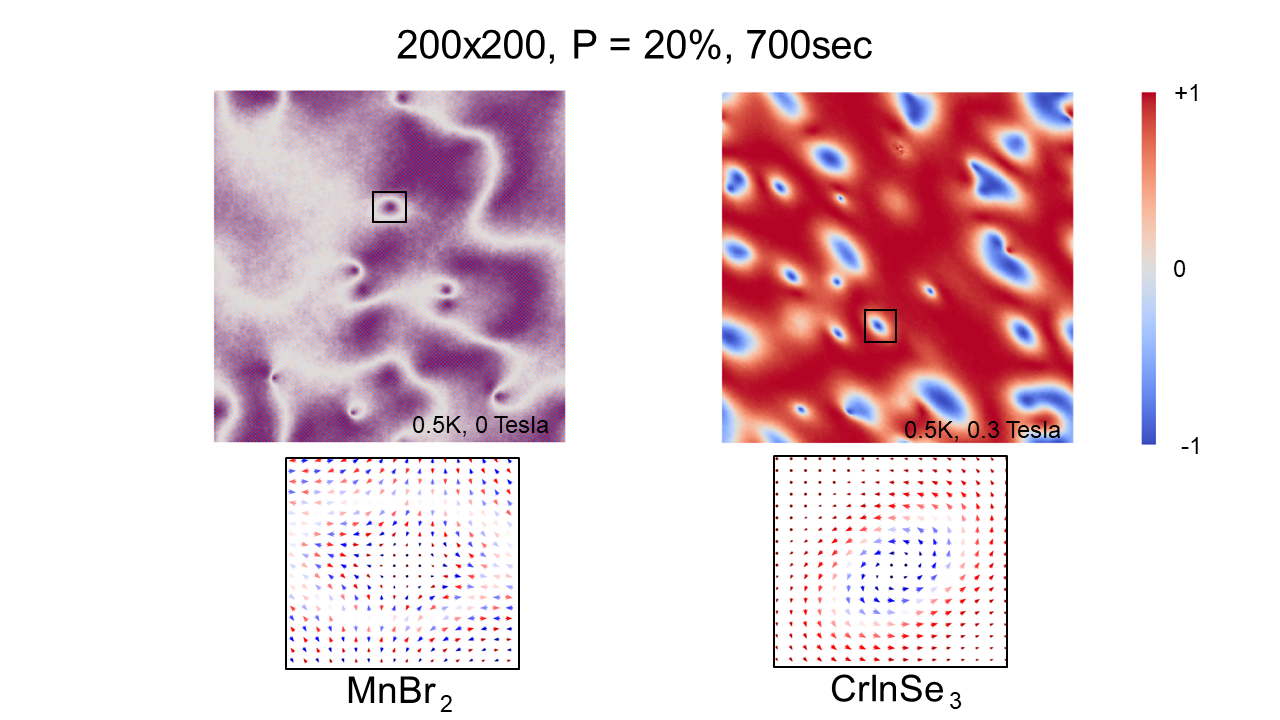
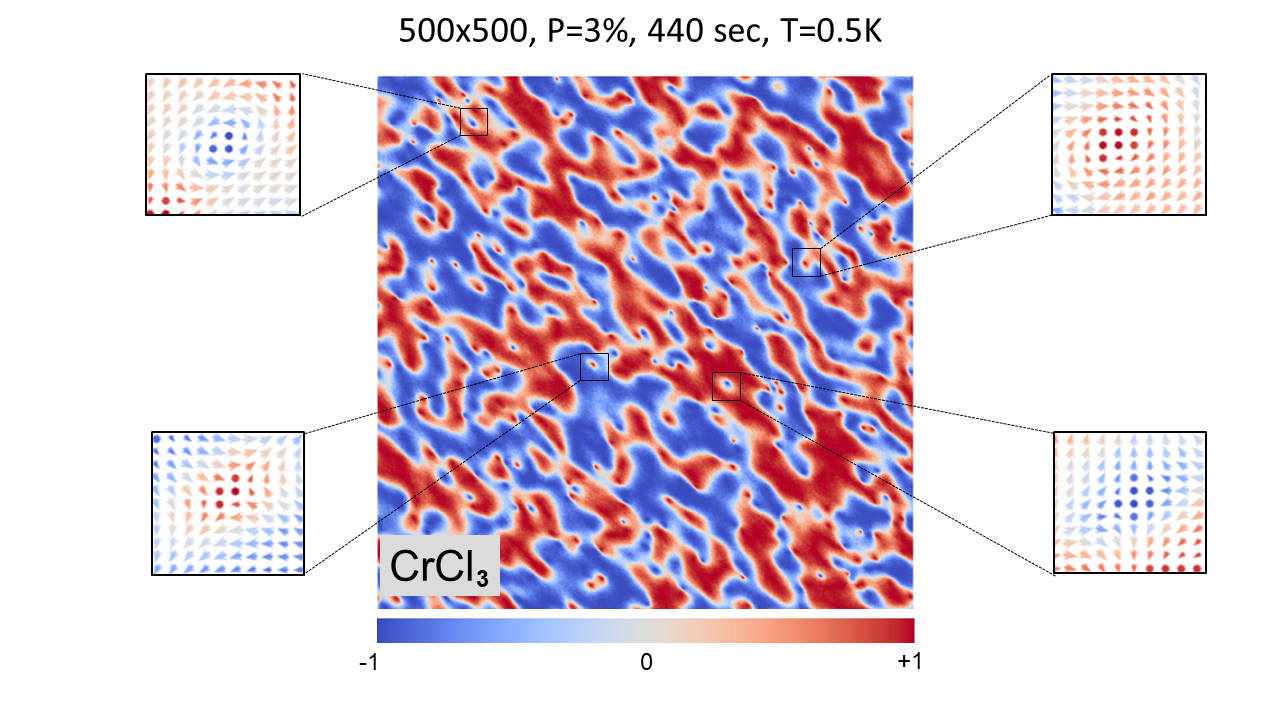
Joss paper commit 1.0

diff --git a/JOSS Paper.md b/JOSS Paper.md
@@ -1,6 +1,6 @@
 
 ---
-title: 'CUDA-METRO: Metropolis Monte-Carlo for 2D Atomistic Spin Texture Simulation '
+title: 'CUDA-METRO: Parallel Metropolis Monte-Carlo for 2D Atomistic Spin Texture Simulation '
 tags:
   -  Python
   -  Monte Carlo
@@ -22,22 +22,51 @@ tags:
    ror: [04dese585](https://ror.org/04dese585)
   -  name: Indian Institute of Science, India
 date: 30 Sept 2024
-bibliography: paper.bib
+bibliography: references.bib
 ---
 
-# Summary
-Efficient parallelization of Metropolis Monte Carlo simulation is challenging since the evolving states are typically
-not independent because of the Markov property. Here we focus on simulating magnetic phase transition under the
-anisotropic Heisenberg Model in a very high dimensional space, which is important for emerging two-dimensional
-(2D) magnetism and nontrivial topological spin textures. Previous attempts for parallelization are restricted to the
-simpler Ising Model and not applicable to 2D materials because of their finite magnetocrystalline anisotropy, complex
-crystal structures and long-range interactions.
-
 # Statement of need
-`CUDA-METRO` is a python based tool to simulate and find out the ground states of a given 2D lattice of a number of crystallline structures, beginning with a given starting state. We wrap `CUDA C++` inside python for access to low level code. The kernel is written in `CUDA C++` while the data I/O is handled with `pyCUDA`. We additionally handle the large amount of random numbers needed with `pycuda.curandom.XORWOWRandomNumberGenerator()` which we then post-process according to our needs.
-`CUDA-METRO`, being a Metropolis Monte Carlo simulation for any 2D matrix problem, can be used in different ways both to simulate materials and to other matrix based problems. This tool was primarily created to harness the huge computational power of GPUs(Graphics Processing Units) and their efficiency in evaluating matrix based computations. This tool provides both computation speed and capacity(with respect to grid sizes) for simulating such matrices/materials.
 
-# Mathematics
+Atomistic spin texture simulations are crucial for understanding and predicting the behaviour of magnetic materials at the nanoscale. These simulations provide insights into fundamental properties like magnetic phase transition and are thus useful for exploring novel materials (npj Computational Materials (2023) 9:173). The Metropolis Monte-Carlo method is frequently utilised for atomistic spin texture simulations as a sampling algorithm to investigate the phase space of a system and is especially effective for calculating equilibrium properties (J. Phys.: Condens. Matter 26, 103202 (2014), Physical Review B. 99, 224414 (2019)).
+Efficient parallelization of Metropolis Monte Carlo simulation is challenging since the evolving states are typically not independent because of the Markov property. Here we focus on simulating magnetic phase transition under the anisotropic Heisenberg Model in a very high dimensional space, which is important for emerging two-dimensional (2D) magnetism and nontrivial topological spin textures (Nature Communications. 12, 185 (2021,1)). Previous attempts for parallelization are restricted to the simpler Ising Model and not applicable to 2D materials because of their finite magneto crystalline anisotropy, complex crystal structures and long-range interactions. MC simulation of the anisotropic Heisenberg model is very complex owing to the large number of additional Hamiltonian calculations and interconnectivity between lattice points. The amount of calculations increases as n², where n represents the dimension of a square lattice. This becomes alarming when n exceeds 100, which is entirely justifiable for investigating topological spin textures (skyrmions, merons, etc.). 
+Here we present CUDA-METRO, a graphical processing unit (GPU) based open source code for accelerated atomistic spin dynamics simulation. Our code works on the hypothesis that a state can be approximately evolved by updating several connected lattice atoms’ spin vectors while ignoring their dependency on neighbours and ensuring zero race condition effects by enforcing a dynamic batch size. We evaluated our code by precisely simulating complex topological spin textures and temperature-dependent magnetic phase transitions for diverse 2D crystal structures with long-range magnetic interactions. We demonstrate exceptional acceleration while finding the ground state of a $750\times750$ supercell in 9 hours using an A100-SXM4 GPU.
+
+# Summary
+We consider a lattice system with a periodic arrangement of atoms, where each atom is represented by a 3D spin vector.  This atomistic spin model is founded on the spin Hamiltonian, which delineates the essential spin-dependent interactions at the atomic scale, excluding the influences of potential and kinetic energy and electron correlations. The spin Hamiltonian is conventionally articulated as
+
+$$H=-\sum Js_i\cdot s_j - \sum K_x s_i \cdot s_j-\sum K_y s_i \cdot s_j-\sum K_z s_i \cdot s_j-\sum A s_i \cdot s_i-\mu B \cdot \sum s_i$$
+
+where $s_j$ are the first set of neighbours. We continue this calculation for however many neighbours sets as required. Since these energies are short range in nature, they typically die out in a span of 3-4 bond lengths(10-15$\textup{~\AA})$
+
+Starting from a random spin configuration, in this many-body problem, our objective is to find the orientation of spin vectors for every atom so that the energy of the entire lattice reaches to its minimum for a given magnetic field and temperature. 
+Traditionally single spin update (SSU) scheme is employed to solve this problem, which satisfies the detailed balance condition. Very briefly explain SSU with Metropolis scheme.  In the SSU method of updating the state, a single atomic spin is chosen at random and changed, while noting down the energy shift. This new state is then accepted or rejected using the Metropolis criteria. It is imperative that SSU becomes extremely inefficient as the dimensionality increases. We propose the following parallel algorithm to find the ground state, which is inaccessible by SSU scheme.
+
+In our method, we select multiple atomic spins at the same time and change them all at once, treating them as independent events. For any individual spin, they do not feel the effects of the other changed spins. For each of these points, we then invoke the Metropolis criteria and put in the changed or otherwise new spins. This becomes our new state.
+
+A basic schematic of the algorithm is given below:
+
+![Figure 1](figures/Figure_1.PNG)
+
+At present, five different lattice types  (square, rectangular, centred-rectangular, hexagonal and honeycomb) are implemented in our code since most of the 2D magnetic materials fall into this category (Ref: Patterns), and for neighbour mapping, we use analytical relations (Ref: IOP paper).
+
+For a lattice of size $N\times N$, $100\%$ parallelization would correspond to selecting $N^2$ spins at random. Since each spin selection and its consequent Metropolis criterion is evaluated on a separate CUDA core, it becomes apparent that we would need $N^2$ CUDA cores to achieve this $100\%$ parallelization. In most cases, we avoid this altogether because of the sheer size of larger lattices and accuracy problems discussed in the next section.
+
+Since the proposed algorithm may not adhere to the detailed balance conditions, it yields approximate results, and there is a trade-off between parallelization/acceleration and accuracy. It is found that if the parallelization is limited to $10\%$ of the lattice size, we obtain very accurate results with significant acceleration. We can see the effect of excess parallelization in $CrI_3$ below with respect to the standard results. However, the problem disappears at larger grid sizes where even modern hardware cannot achieve higher levels of parallelization leaving us with satisfactory results highlighted below. Along with these, the additional speed gives us the chance to observe the lifetime of microstructures in these materials, from their conception to destruction, as is also highlighted below. For each image, the overall grid size, the parallelization percentage (how much of the total number of atoms we are changing at one step), total time taken and temperature are given. External magnetic field is $0.0T$ unless stated otherwise.
+
+![Figure 2](figures/Figure_2.png)
+Fig 2: Presence of Skyrmions and Merons in $CrCl_3$. [@augustin_properties_2021].
+
+![Figure 3](figures/Figure_3.png)
+Fig 3: Presence of anti-skyrmions in $MnBr_2$ and skyrmions in $CrInSe_3$. [@]
+
+![Figure 4](figures/Figure_4.png)
+Fig 4: Discrepancy between experimantal and simuation results at differing levels of parallelization. Note how at $10\%$, the simulation results are almost indistinguishable from the reference data.
+
+![Figure 5](figures/Figure_5.PNG)
+Fig 5: Lifetime of a skyrmion, from its creation to annihilation. The graph denotes the average energy per atom. As we approach the global minima, the entire field becomes aligned to the magnetic field as expected.
+# State Propagation
+
+
 According to the laws of thermodynamics, two different states with energies $E_1$ and $E_2$ will have relative probabilities of existence as 
 
 $$\frac{p(E_2)}{p(E_1)}=\frac{e^{-\beta E_2}}{e^{-\beta E_1}}$$

diff --git a/README.md b/README.md
@@ -38,11 +38,16 @@ Using these, we run the simulation towards an energy minima and then visualize t
 
 The resulting code `CUDA-METRO` has returned satisfactory results in most of its test scenarios. It has been used to verify the Curie Temperature of a n umber of materials. Most notably, it has been used to verify spintronic microstructures in 2D materials like skyrmions and merons. Some of the most notable ones are shown below ![Figure 1](figures/Figure_1.png)
 Fig1. Merons forming in $CrCl_3$ at $T=0.5K$, a grid size of $500\times 500$, and a total kernel size of $8192$(~3% of $500\times 500$). This simulation took $440s$.
+
 ![Figure 2](figures/Figure_2.png)
 Fig2. Left: Antiferromagnetic skyrmions in $MnBr_{2}$, Right: Ferromagnetic skyrmions in $CrInSe_3$. These simulations used a grid size of $200\times 200$, using a kernel size of $8192$(~20% of $200\times 200$). These simulations took a $700s$.
 
 # Method
 This is an *approximate* algorithm which mimics the classic single spin Metropolis Monte Carlo algorithm. This algorithm, however maximizes speed at the cost of minor accuracy. While in the single spin method, only 1 lattice point is evaluated at any given step, we take it further and evaluate multiple points at the same time. This works well for some time until we start evaluating too many points at the same time. It is advised to limit the parallelization to $~10\%$ of the total number, using more parallelization distorts the accuracy of further results. A benchmark for this has been recorded where we try to simulate the Curie temperature of $CrI_3$, with the results given below.![Figure 3](figures/Figure_3.png)
+Fig3. The distortion of results with an increase in the number of points evaluated in parallel. Note how $<10\%$, the simulation closely follows the experimental reference results.
+
+The above experiment shows a raw theoretical increase of $N\times$ amount increase in performance, while compromising slightly on the results. This makes this code most suited for large supercells which saturate the CUDA cores of any given GPU, even considering the high throughput of each Metropolis step.
+
 # Tools
 If one does not wish to use this purely for observation of microstructures in material, they can alternatively make use of its other modes like
 ## 1. Vector analysis/visualization
